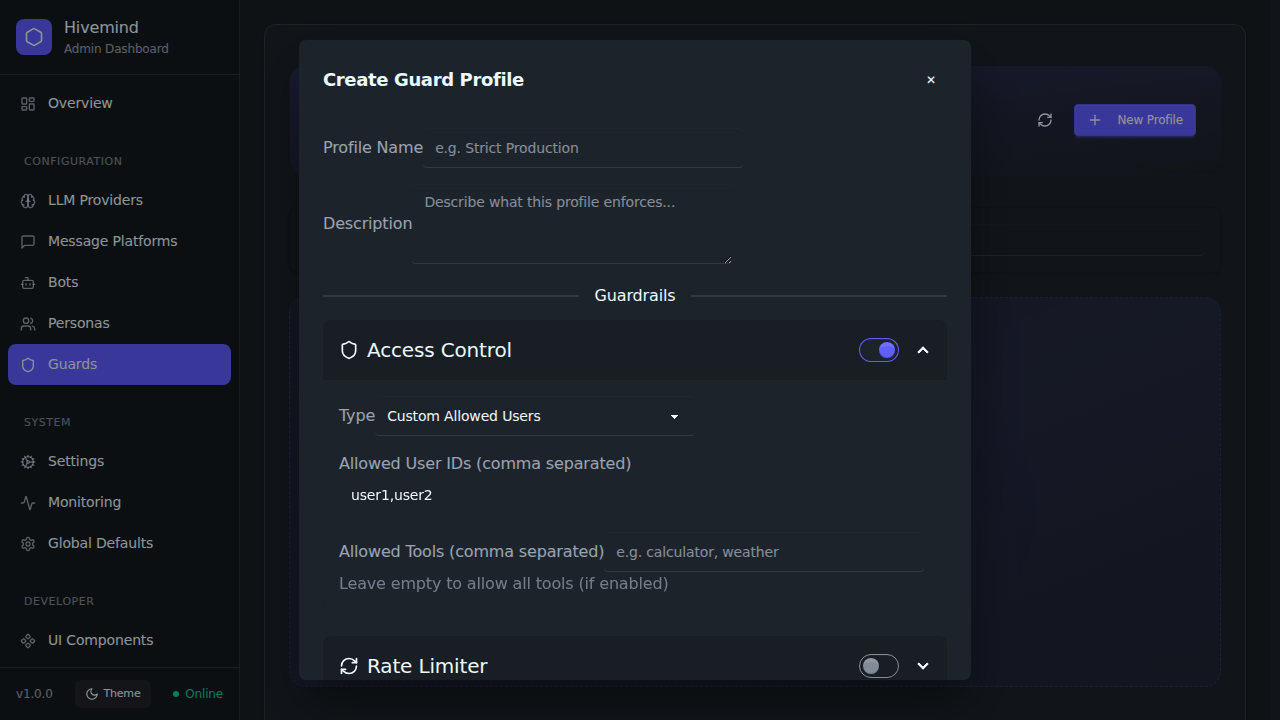
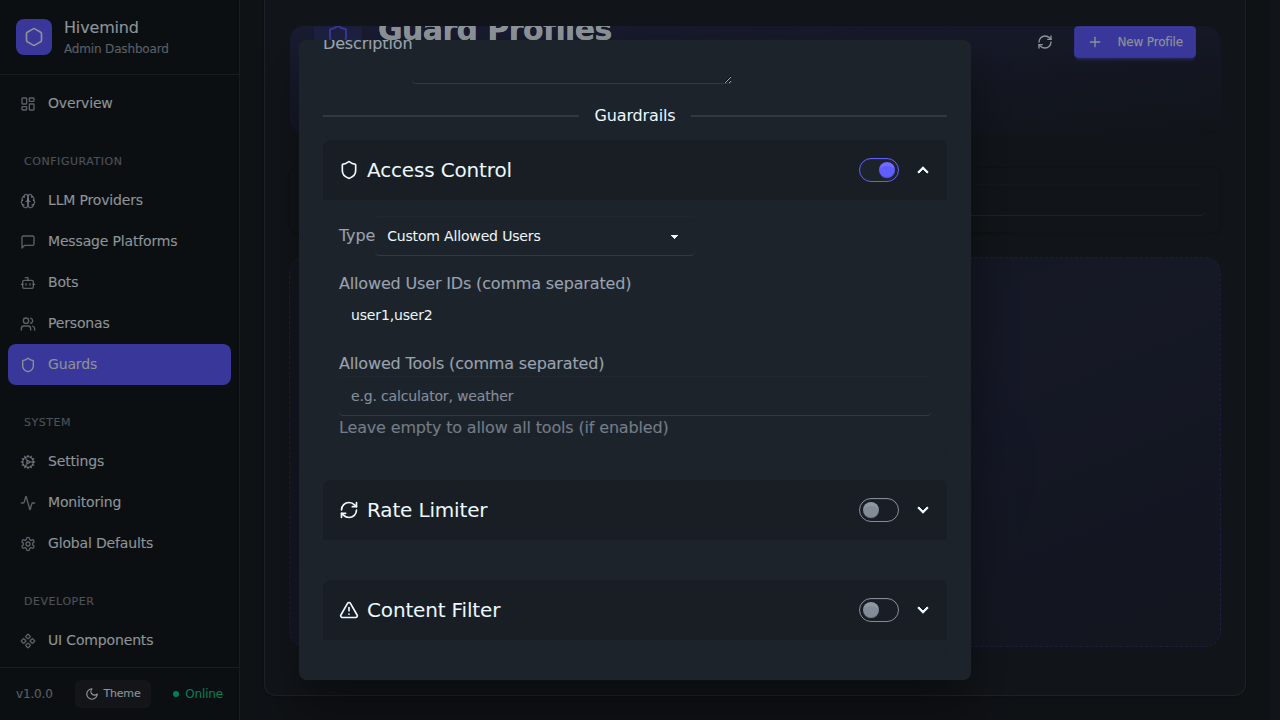
Refiner (Interfaces and Specifications for Coupling Cohesion): Fix CommaSeparatedInput UX in Guard Profiles (#1249)
* Fix comma-separated array input UX in GuardsPage

*   Replaced native `<input>` tags in `GuardsPage` for Allowed User IDs and Allowed Tools with a new `CommaSeparatedInput` React component.
*   This resolves the uncontrolled UI rendering bug where commas immediately tokenized the string state, causing the input to blur/reset mid-keystroke.
*   The buffered component delays the actual API state update until `onBlur` or `Enter` is pressed, providing smoother and expected UX.
*   Resolved ts-node compilation errors in the backend routes (SecureConfigManager.ts, health.ts) causing the Playwright server to fail to start.

* refactor(ui): enhance CommaSeparatedInput with duplicate removal and better formatting

---------

diff --git a/src/client/src/pages/GuardsPage.tsx b/src/client/src/pages/GuardsPage.tsx
@@ -2,6 +2,7 @@
 import React, { useState, useEffect, useCallback } from 'react';
 import { Shield, Plus, Edit2, Trash2, Check, RefreshCw, AlertCircle, Save, X, Settings, AlertTriangle, Copy } from 'lucide-react';
 import { useSuccessToast, useErrorToast } from '../components/DaisyUI/ToastNotification';
+import { CommaSeparatedInput } from '../components/CommaSeparatedInput';
 import Modal, { ConfirmModal } from '../components/DaisyUI/Modal';
 import PageHeader from '../components/DaisyUI/PageHeader';
 import { CommaSeparatedInput } from '../components/DaisyUI';
@@ -350,10 +351,9 @@ const GuardsPage: React.FC = () => {
                     <label className="label" htmlFor="allowed-users"><span className="label-text">Allowed User IDs (comma separated)</span></label>
                     <CommaSeparatedInput
                       id="allowed-users"
-                      className="input input-bordered"
+                      className="input input-bordered w-full"
                       value={editingProfile.guards.mcpGuard.allowedUsers || []}
-                      // Sanitization (trim().filter(Boolean)) happens in handleSaveProfile before API submission.
-                      onChange={val => updateGuard('mcpGuard', { allowedUsers: val })}
+                      onChange={tokens => updateGuard('mcpGuard', { allowedUsers: tokens })}
                       disabled={!editingProfile.guards.mcpGuard.enabled}
                     />
                   </div>
@@ -363,11 +363,10 @@ const GuardsPage: React.FC = () => {
                   <label className="label" htmlFor="allowed-tools"><span className="label-text">Allowed Tools (comma separated)</span></label>
                   <CommaSeparatedInput
                     id="allowed-tools"
-                    className="input input-bordered"
+                    className="input input-bordered w-full"
                     placeholder="e.g. calculator, weather"
                     value={editingProfile.guards.mcpGuard.allowedTools || []}
-                    // Sanitization (trim().filter(Boolean)) happens in handleSaveProfile before API submission.
-                    onChange={val => updateGuard('mcpGuard', { allowedTools: val })}
+                    onChange={tokens => updateGuard('mcpGuard', { allowedTools: tokens })}
                     disabled={!editingProfile.guards.mcpGuard.enabled}
                   />
                   <label className="label"><span className="label-text-alt opacity-70">Leave empty to allow all tools (if enabled)</span></label>
@@ -487,7 +486,7 @@ const GuardsPage: React.FC = () => {
                     className="textarea textarea-bordered h-20"
                     placeholder="e.g. secret, password, confidential"
                     value={editingProfile.guards.contentFilter?.blockedTerms?.join(',') || ''}
-                    // Sanitization (trim().filter(Boolean)) happens in handleSaveProfile before API submission.
+                    // We're leaving blocked terms as a textarea to allow multi-line input in the future or because it uses textarea
                     onChange={e => updateGuard('contentFilter', { blockedTerms: e.target.value.split(',') })}
                     disabled={!editingProfile.guards.contentFilter?.enabled}
                   />

diff --git a/src/client/src/components/CommaSeparatedInput.tsx b/src/client/src/components/CommaSeparatedInput.tsx
@@ -1,0 +1,56 @@
+import React, { useState, useEffect } from 'react';
+
+interface Props {
+  id?: string;
+  value: string[];
+  onChange: (value: string[]) => void;
+  disabled?: boolean;
+  placeholder?: string;
+  className?: string;
+}
+
+export const CommaSeparatedInput: React.FC<Props> = ({ id, value, onChange, disabled, placeholder, className }) => {
+  const [inputValue, setInputValue] = useState('');
+
+  // Buffer value prop initially, but use deep comparison or a custom approach
+  // to avoid resetting state due to inline [] passed from parent
+  const valueString = value.join(',');
+  useEffect(() => {
+    setInputValue(valueString);
+  }, [valueString]);
+
+  const handleBlur = () => {
+    if (inputValue.trim() === '') {
+      onChange([]);
+    } else {
+      // Split by comma, trim, filter out empty strings, and remove duplicates
+      const tokens = Array.from(new Set(
+        inputValue.split(',')
+          .map(s => s.trim())
+          .filter(Boolean)
+      ));
+      onChange(tokens);
+      setInputValue(tokens.join(', ')); // Add a space for better readability
+    }
+  };
+
+  const handleKeyDown = (e: React.KeyboardEvent<HTMLInputElement>) => {
+    if (e.key === 'Enter') {
+      e.preventDefault();
+      handleBlur();
+    }
+  };
+
+  return (
+    <input
+      id={id}
+      value={inputValue}
+      onChange={(e) => setInputValue(e.target.value)}
+      onBlur={handleBlur}
+      onKeyDown={handleKeyDown}
+      disabled={disabled}
+      placeholder={placeholder}
+      className={className}
+    />
+  );
+};

diff --git a/src/server/routes/health.ts b/src/server/routes/health.ts
@@ -546,7 +546,7 @@ router.get('/errors/patterns', (req, res) => {
           return {
             type,
             count: count as number,
-            percentage: ((totalCount as number) > 0) ? ((count as number) / (totalCount as number)) * 100 : 0,
+            percentage: (totalCount as number) > 0 ? ((count as number) / (totalCount as number)) * 100 : 0,
           };
         }),
       spikes: detectErrorSpikes(errorStats),

diff --git a/src/config/SecureConfigManager.ts b/src/config/SecureConfigManager.ts
@@ -325,7 +325,7 @@ export class SecureConfigManager {
       if (!resolvedBackupPath.startsWith(resolvedBackupDir + path.sep) && resolvedBackupPath !== resolvedBackupDir) {
         throw ErrorUtils.createError(
           'Invalid backup ID: Path traversal detected',
-          'ValidationError' as any,
+          'validation',
           'SECURE_CONFIG_INVALID_BACKUP_ID',
           400,
         );
